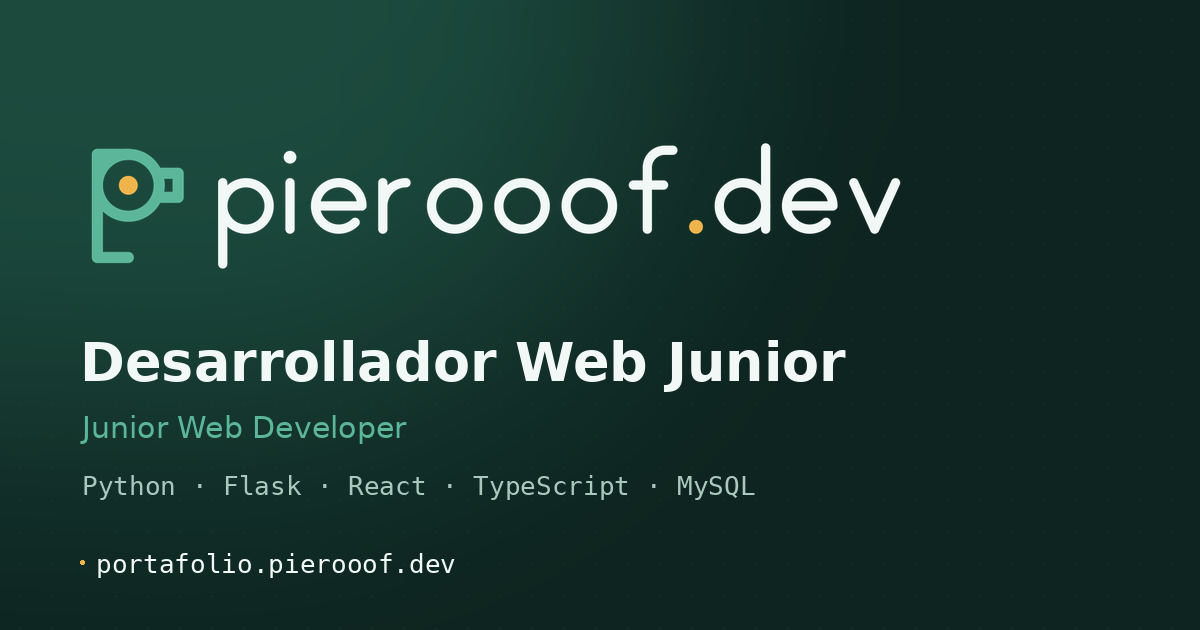
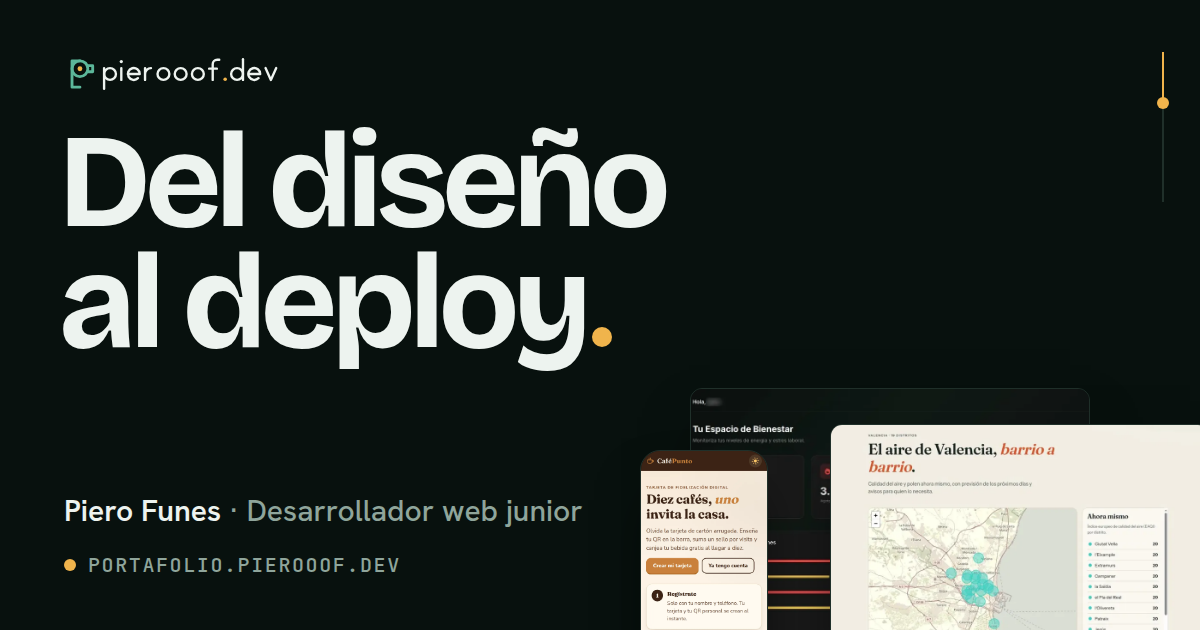
Nueva imagen para compartir el enlace (OG) acorde al rediseño

diff --git a/index.html b/index.html
@@ -18,12 +18,12 @@
     <meta property="og:title" content="Piero Funes | Desarrollador web junior · Junior web developer">
     <meta property="og:description" content="Python, Flask, React, TypeScript y MySQL. Proyectos en producción: Resilio, Respira y CaféPunto.">
     <meta property="og:url" content="https://portafolio.pierooof.dev/">
-    <meta property="og:image" content="https://portafolio.pierooof.dev/og-image.png">
+    <meta property="og:image" content="https://portafolio.pierooof.dev/og-image.png?v=2">
     <meta property="og:image:width" content="1200">
     <meta property="og:image:height" content="630">
-    <meta property="og:image:alt" content="pierooof.dev · Desarrollador Web Junior">
+    <meta property="og:image:alt" content="Del diseño al deploy. Piero Funes, desarrollador web junior, con tres proyectos en producción.">
     <meta name="twitter:card" content="summary_large_image">
-    <meta name="twitter:image" content="https://portafolio.pierooof.dev/og-image.png">
+    <meta name="twitter:image" content="https://portafolio.pierooof.dev/og-image.png?v=2">
 
     <!-- Iconos de marca pierooof.dev -->
     <link rel="icon" href="favicon.svg" type="image/svg+xml">
